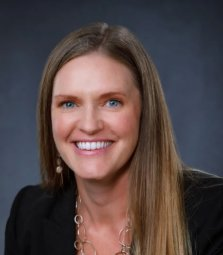
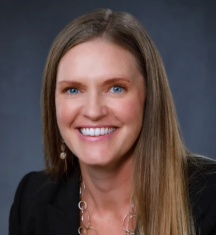
schedule changes

diff --git a/src/AdviceOnlyConference.js b/src/AdviceOnlyConference.js
@@ -745,25 +745,24 @@ function Agenda() {
       { time: "5:30 PM", title: "Evening Event & Networking 🎉", type: "break", note: "Celebrate Day 1 with your fellow attendees" },
     ],
     2: [
-      { time: "8:30 AM", title: "Registration & Morning Coffee", type: "break", note: "Come early, connect deeply" },
-      { time: "9:00 AM", title: "Day 2 Keynote", type: "keynote", note: "Performance Hall · Speaker & topic TBD" },
+      { time: "8:30 AM", title: "Morning Coffee", type: "break", note: "Come early, connect deeply" },
+      { time: "9:00 AM", title: "The Intersection of Advice-Only and the FIRE Movement", type: "keynote", note: "Performance Hall · Chris Mamula" },
       { time: "10:00 AM", type: "concurrent", sessions: [
         { title: "Compliance for Advice-Only Advisors", room: "Performance Hall", type: "session" },
         { title: "Tech Stack Deep Dive: What You Do (and Don't) Need", room: "Breakout Room", type: "session" },
       ]},
       { time: "11:15 AM", type: "concurrent", sessions: [
-        { title: "Breakout Session · Topic TBD", room: "Performance Hall", type: "session" },
-        { title: "Breakout Session · Topic TBD", room: "Breakout Room", type: "session" },
+        { title: "Delivering Ongoing Financial Planning", room: "Performance Hall", type: "session" },
+        { title: "Delivering Hourly or Project Based Financial Planning", room: "Breakout Room", type: "session" },
       ]},
       { time: "12:15 PM", title: "Lunch & Networking", type: "break", note: "Catered lunch · Open networking with all attendees" },
-      { time: "1:15 PM", title: "Marketing an Advice-Only Practice in 2026", type: "break", note: "Performance Hall" },
-      { time: "2:00 PM", title: "The Intersection of Advice-Only and the FIRE Movement", type: "break", note: "Chris Mamula · Performance Hall" },
+      { time: "1:30 PM", title: "Marketing an Advice-Only Practice in 2026", type: "break", note: "Performance Hall" },
       { time: "2:45 PM", type: "concurrent", sessions: [
         { title: "Breakout Session · Topic TBD", room: "Performance Hall", type: "session" },
         { title: "Breakout Session · Topic TBD", room: "Breakout Room", type: "session" },
       ]},
       { time: "4:00 PM", title: "Closing Keynote", type: "keynote", note: "Performance Hall · Speaker & topic TBD" },
-      { time: "5:00 PM", title: "Farewells & Departures 🥂", type: "break", note: "Celebrating two great days together" },
+      { time: "5:00 PM", title: "Farewells & Departures", type: "break", note: "Celebrating two great days together" },
     ],
   };
   const typeColors = {
